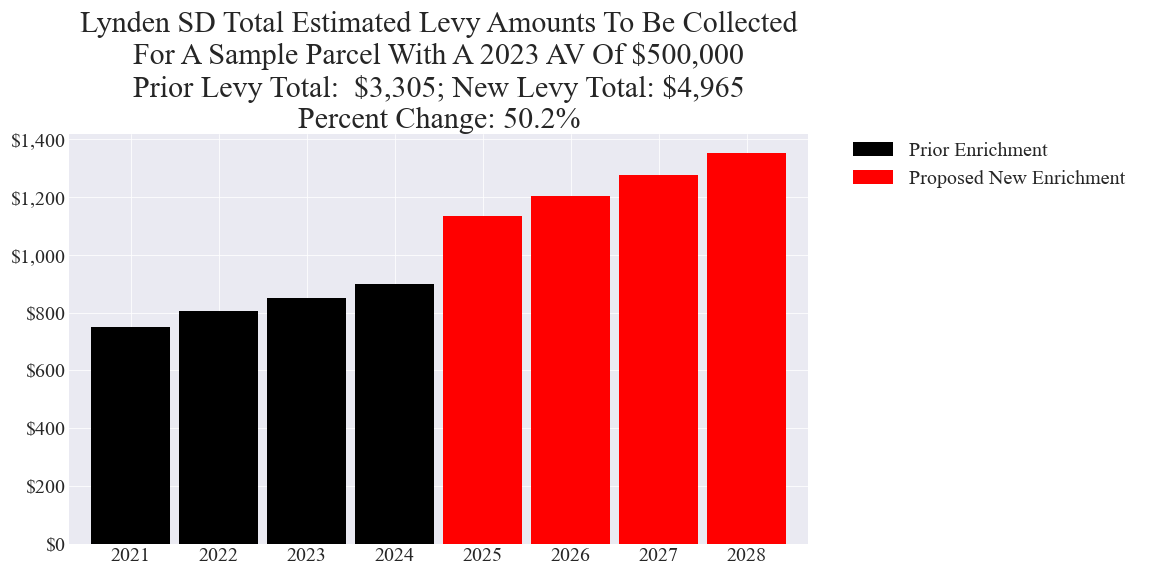
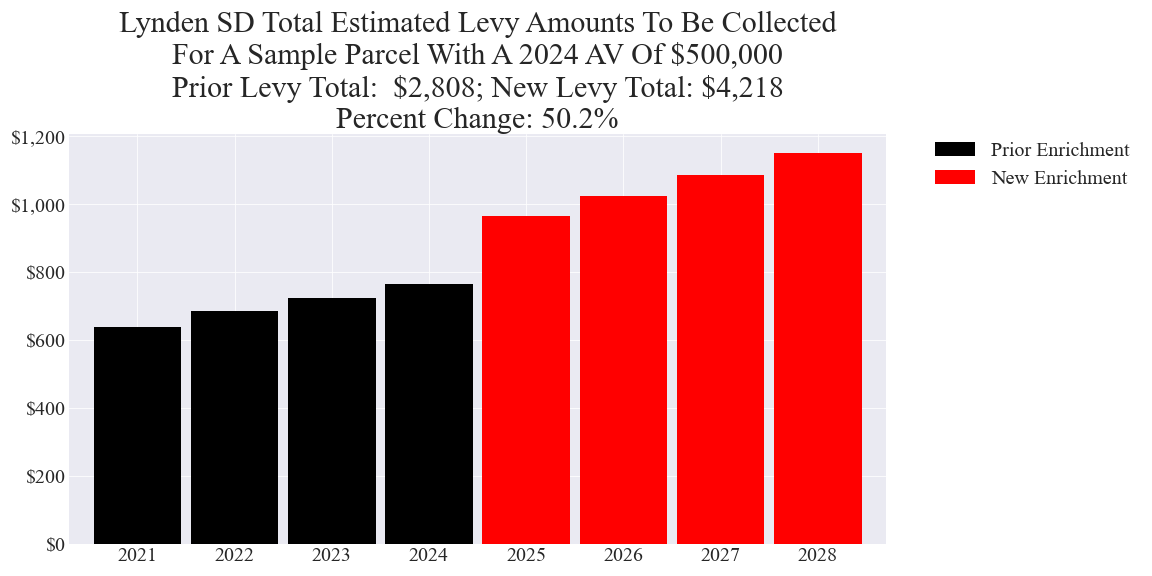
Updated Lynden enrichment charts 20240213

diff --git a/_includes/cost_estimates/20240213/Lynden_Enrichment_20240213_Enhanced.html b/_includes/cost_estimates/20240213/Lynden_Enrichment_20240213_Enhanced.html
@@ -10,7 +10,7 @@
 	var chart;
 	var dataParcel;
 	
-	totalLevyAV = 4468599398;
+	totalLevyAV = 5259941885;
 	sampleParcelAV = 500000;
 	sampleParcelAVMin = 100000;
 	sampleParcelAVMax = 2000000;
@@ -94,7 +94,7 @@
 		table_input_data.addColumn('string', 'Description');
 		table_input_data.addColumn('number', 'Value');
 		table_input_data.addRows([
-			['Sample Parcel 2023 Tax Year Assessed Value (AV)', sampleParcelAV],
+			['Sample Parcel 2024 Tax Year Assessed Value (AV)', sampleParcelAV],
 		]);
 
 		// POF Adjust table
@@ -214,8 +214,8 @@
   <H3>Input</H3>
   <div id="table_input_div" style="width:1200px; height: 60px;"></div>
   <p></p>
-  <input type="button" value="Increase Sample Parcel 2023 Tax Year AV" onclick="changeParcelAV(25000)" />
-  <input type="button" value="Decrease Sample Parcel 2023 Tax Year AV" onclick="changeParcelAV(-25000)" />
+  <input type="button" value="Increase Sample Parcel 2024 Tax Year AV" onclick="changeParcelAV(25000)" />
+  <input type="button" value="Decrease Sample Parcel 2024 Tax Year AV" onclick="changeParcelAV(-25000)" />
   <p></p>
   <div id="table_pof_adjust_input_div" style="width:1200px; height: 60px;"></div>
   <input type="button" value="Increase POF Annual Change" onclick="changePOFChange(0.1)" />
